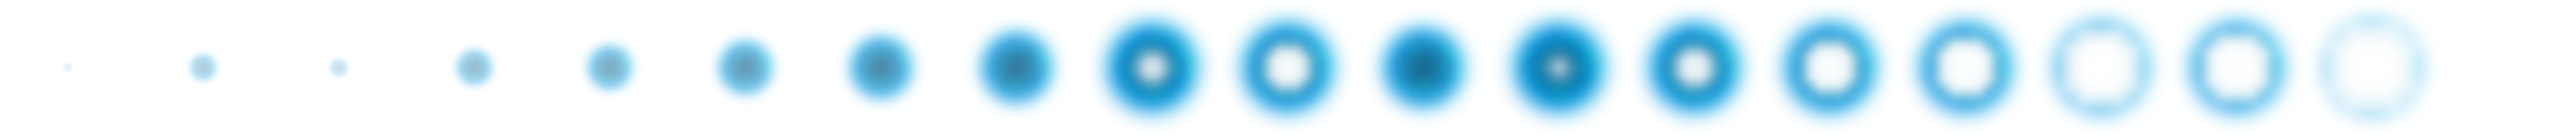
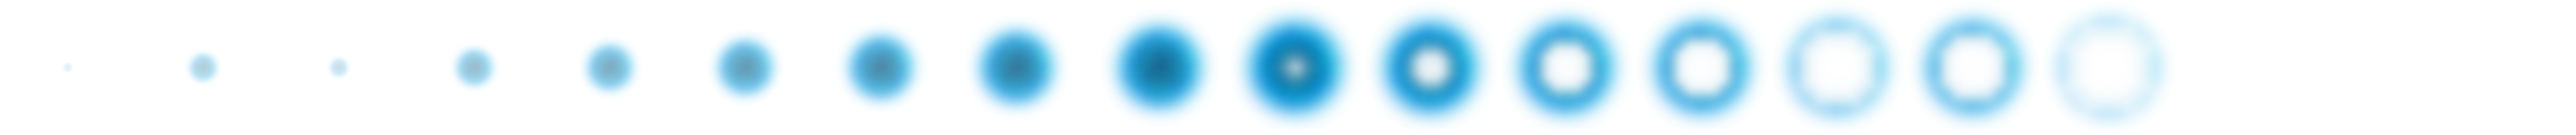
Spawn animation added

Changed region(s): [[0.4037, 0.09, 0.9626, 0.93]]

diff --git a/include/graphics/Animation.h b/include/graphics/Animation.h
@@ -1,5 +1,5 @@
 //
-// Created by jprolejko on 30.08.19.
+// Created by jprolejko on 05.09.19.
 //
 
 #ifndef GRAVITY_GRAPHICS_ANIMATION_H
@@ -28,55 +28,9 @@ public:
               const sf::Vector2i &frame_size,
               const sf::Vector2f &position,
               float duration_s, short int frames_count,
-              const AnimationType &animation_type = AnimationType::LINEAR) : AbstractDrawableObject(position),
-                                                                             frame_size_(frame_size),
-                                                                             animation_source_({0, 0}, frame_size_),
-                                                                             type_(animation_type),
-                                                                             duration_s_(duration_s),
-                                                                             max_frames_count_(frames_count),
-                                                                             time_elapsed_(0.0f) {
-        animation_sprite_.setTexture(ResourceManager::getInstance().getTexture(texture_name));
+              const AnimationType &animation_type = AnimationType::LINEAR);
 
-        animation_sprite_.setPosition(this->getPosition());
-        animation_sprite_.setOrigin(frame_size_.x / 2, frame_size_.y / 2);
-    }
-
-    bool update(float time_elapsed) {
-        time_elapsed_ += time_elapsed;
-
-        auto current_frame = static_cast<short int>(time_elapsed_ * max_frames_count_ / duration_s_);
-
-        switch (type_)
-        {
-            case AnimationType::LINEAR:
-            {
-                animation_source_.left = frame_size_.x * current_frame;
-                animation_source_.top = 0;
-                break;
-            }
-            case AnimationType::QUADRATIC:
-            {
-                animation_source_.left = frame_size_.x *
-                        (current_frame % static_cast<short int>(std::sqrt(max_frames_count_)));
-                animation_source_.top = frame_size_.y *
-                        (current_frame / static_cast<short int>(std::sqrt(max_frames_count_)));
-                break;
-            }
-            default:
-            {
-                throw std::invalid_argument("[Animation] Animation type not implemented!");
-            }
-        }
-
-        animation_sprite_.setTextureRect(animation_source_);
-
-        if (current_frame > max_frames_count_)
-        {
-            return true;
-        }
-
-        return false;
-    }
+    bool update(float time_elapsed);
 
 protected:
     short int max_frames_count_;
@@ -92,9 +46,7 @@ protected:
     float time_elapsed_;
 
 private:
-    virtual void draw(sf::RenderTarget &target, sf::RenderStates states) const {
-        target.draw(animation_sprite_, states);
-    }
+    virtual void draw(sf::RenderTarget &target, sf::RenderStates states) const;
 
 };
 

diff --git a/src/graphics/Animation.cpp b/src/graphics/Animation.cpp
@@ -1,0 +1,65 @@
+//
+// Created by jprolejko on 05.09.19.
+//
+
+#include <iostream>
+#include <graphics/Animation.h>
+
+
+Animation::Animation(const std::string &texture_name,
+                     const sf::Vector2i &frame_size,
+                     const sf::Vector2f &position,
+                     float duration_s, short int frames_count,
+                     const AnimationType &animation_type) : AbstractDrawableObject(position),
+                                                            frame_size_(frame_size),
+                                                            animation_source_({0, 0}, frame_size_),
+                                                            type_(animation_type),
+                                                            duration_s_(duration_s),
+                                                            max_frames_count_(frames_count),
+                                                            time_elapsed_(0.0f) {
+    animation_sprite_.setTexture(ResourceManager::getInstance().getTexture(texture_name));
+
+    animation_sprite_.setPosition(this->getPosition());
+    animation_sprite_.setOrigin(frame_size_.x / 2, frame_size_.y / 2);
+}
+
+bool Animation::update(float time_elapsed) {
+    time_elapsed_ += time_elapsed;
+
+    auto current_frame = static_cast<short int>(time_elapsed_ * max_frames_count_ / duration_s_);
+
+    switch (type_)
+    {
+        case AnimationType::LINEAR:
+        {
+            animation_source_.left = frame_size_.x * current_frame;
+            animation_source_.top = 0;
+            break;
+        }
+        case AnimationType::QUADRATIC:
+        {
+            animation_source_.left = frame_size_.x *
+                    (current_frame % static_cast<short int>(std::sqrt(max_frames_count_)));
+            animation_source_.top = frame_size_.y *
+                    (current_frame / static_cast<short int>(std::sqrt(max_frames_count_)));
+            break;
+        }
+        default:
+        {
+            throw std::invalid_argument("[Animation] Animation type not implemented!");
+        }
+    }
+
+    animation_sprite_.setTextureRect(animation_source_);
+
+    if (current_frame > max_frames_count_)
+    {
+        return true;
+    }
+
+    return false;
+}
+
+void Animation::draw(sf::RenderTarget &target, sf::RenderStates states) const {
+    target.draw(animation_sprite_, states);
+}

diff --git a/src/Engine.cpp b/src/Engine.cpp
@@ -7,8 +7,8 @@
 #include <Engine.h>
 
 
-Engine::Engine() : physics_(planets_) { 
-    addPlanet({CFG.getInt("window_width_px") / 2.0f, CFG.getInt("window_height_px") / 2.0f}, {}, 50.0f); 
+Engine::Engine() : physics_(planets_) {
+    addPlanet({CFG.getInt("window_width_px") / 2.0f, CFG.getInt("window_height_px") / 2.0f}, {}, 50.0f);
 }
 
 void Engine::update(int frame_rate) {
@@ -26,12 +26,12 @@ void Engine::update(int frame_rate) {
         background_.update(time_elapsed);
         physics_.update(time_elapsed);
 
-        for (auto it = explosions_.begin(); it != explosions_.end(); ++it)
+        for (auto it = animations_.begin(); it != animations_.end(); ++it)
         {
-            if (it->update(time_elapsed))
+            if ((*it)->update(time_elapsed))
             {
                 auto next_it = std::next(it);
-                explosions_.erase(it);
+                animations_.erase(it);
                 it = next_it;
             }
         }
@@ -48,12 +48,12 @@ void Engine::update(int frame_rate) {
                 Graphics::getInstance().draw(planet);
             }
 
-            Graphics::getInstance().draw(user_interface_);
-
-            for (const auto &explo : explosions_)
+            for (const auto &animation : animations_)
             {
-                Graphics::getInstance().draw(explo);
+                Graphics::getInstance().draw(*animation);
             }
+
+            Graphics::getInstance().draw(user_interface_);
 
             Graphics::getInstance().display();
         }
@@ -64,11 +64,12 @@ void Engine::update(int frame_rate) {
 
 void Engine::addPlanet(const sf::Vector2f &pos, const sf::Vector2f &vel, float r) {
     planets_.emplace_back(pos, vel, r);
+    animations_.emplace_back(std::make_unique<SpawnAnimation>(pos, r));
 }
 
 void Engine::destroyPlanet(const std::list<Planet>::iterator &planet) {
     planets_.erase(planet);
-    explosions_.emplace_back(planet->getPosition(), planet->getVelocity(), planet->getRadius());
+    animations_.emplace_back(std::make_unique<Explosion>(planet->getPosition(), planet->getVelocity(), planet->getRadius()));
 }
 
 void Engine::ensureConstantFrameRate(const int frame_rate) {

diff --git a/include/graphics/SpawnAnimation.h b/include/graphics/SpawnAnimation.h
@@ -1,0 +1,35 @@
+//
+// Created by jprolejko on 05.09.19.
+//
+
+#ifndef GRAVITY_GRAPHICS_SPAWNANIMATION_H
+#define GRAVITY_GRAPHICS_SPAWNANIMATION_H
+
+#include <graphics/Animation.h>
+#include <Config.h>
+
+
+class SpawnAnimation : public Animation {
+
+public:
+    SpawnAnimation() = delete;
+
+    SpawnAnimation(const sf::Vector2f &position,
+                   float radius) : Animation("spawn",
+                                             {SpawnAnimation::WIDTH_PX_, SpawnAnimation::HEIGHT_PX_}, position,
+                                             SpawnAnimation::DURATION_S_, SpawnAnimation::MAX_FRAMES_COUNT_) {
+        float scale_factor = 10.0f;
+        float scale = scale_factor * radius * CFG.getFloat("pixels_per_km");
+        animation_sprite_.setScale(scale_factor * radius * CFG.getFloat("pixels_per_km") / SpawnAnimation::WIDTH_PX_,
+                                   scale_factor * radius * CFG.getFloat("pixels_per_km") / SpawnAnimation::HEIGHT_PX_);
+    }
+
+private:
+    static constexpr short int MAX_FRAMES_COUNT_ = 19;
+    static constexpr float DURATION_S_ = 0.3f;
+    static constexpr short int WIDTH_PX_ = 200;
+    static constexpr short int HEIGHT_PX_ = 200;
+};
+
+
+#endif // GRAVITY_GRAPHICS_SPAWNANIMATION_H

diff --git a/include/utils/Numeric.h b/include/utils/Numeric.h
@@ -12,13 +12,18 @@
 
 namespace utils {
 
-template <class T>
+template<class T>
 T getRandom(const T &left, const T &right) {
     static std::random_device rd;
     static std::mt19937 mt(rd());
     std::uniform_real_distribution<> distribution(static_cast<double>(left), static_cast<double>(right));
 
     return static_cast<T>(distribution(mt));
+}
+
+template<>
+inline int getRandom<int>(const int &left, const int &right) {
+    return static_cast<int>(std::lround(utils::getRandom<float>(left, right)));
 }
 
 inline bool isBetween(float num, float a, float b) {

diff --git a/src/graphics/Explosion.cpp b/src/graphics/Explosion.cpp
@@ -9,7 +9,7 @@
 
 
 Explosion::Explosion(const sf::Vector2f &position, const sf::Vector2f &direction, float radius) :
-        Animation("explosion" + std::to_string(std::lround(utils::getRandom<float>(1, 3))),
+        Animation("explosion" + std::to_string(utils::getRandom<int>(1, 3)),
                   {Explosion::WIDTH_PX_, Explosion::HEIGHT_PX_}, position,
                   Explosion::DURATION_S_, Explosion::MAX_FRAMES_COUNT_,
                   AnimationType::QUADRATIC) {

diff --git a/include/Engine.h b/include/Engine.h
@@ -5,8 +5,10 @@
 #ifndef GRAVITY_ENGINE_H
 #define GRAVITY_ENGINE_H
 
+#include <memory>
 
 #include <objects/Planet.h>
+#include <graphics/SpawnAnimation.h>
 #include <graphics/Explosion.h>
 #include <graphics/Graphics.h>
 #include <UserInterface.h>
@@ -44,7 +46,7 @@ private:
     sf::Time time_;
 
     std::list<Planet> planets_;
-    std::list<Explosion> explosions_;
+    std::list<std::unique_ptr<Animation>> animations_;
     Background background_;
 };
 

diff --git a/include/graphics/Explosion.h b/include/graphics/Explosion.h
@@ -19,7 +19,7 @@ public:
 
 private:
     static constexpr short int MAX_FRAMES_COUNT_ = 64;
-    static constexpr short int DURATION_S_ = 1.0f;
+    static constexpr float DURATION_S_ = 1.0f;
     static constexpr short int WIDTH_PX_ = 512;
     static constexpr short int HEIGHT_PX_ = 512;
 };
